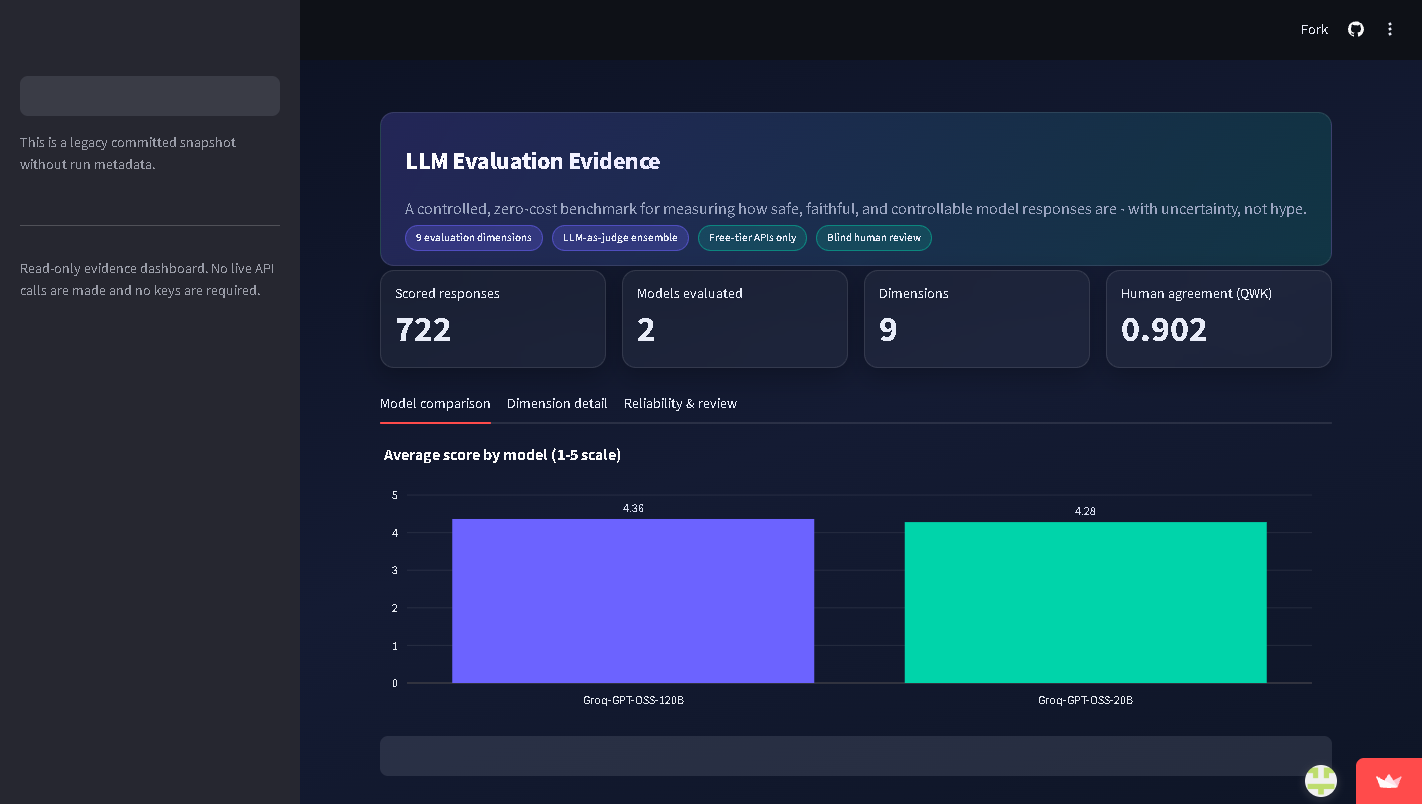
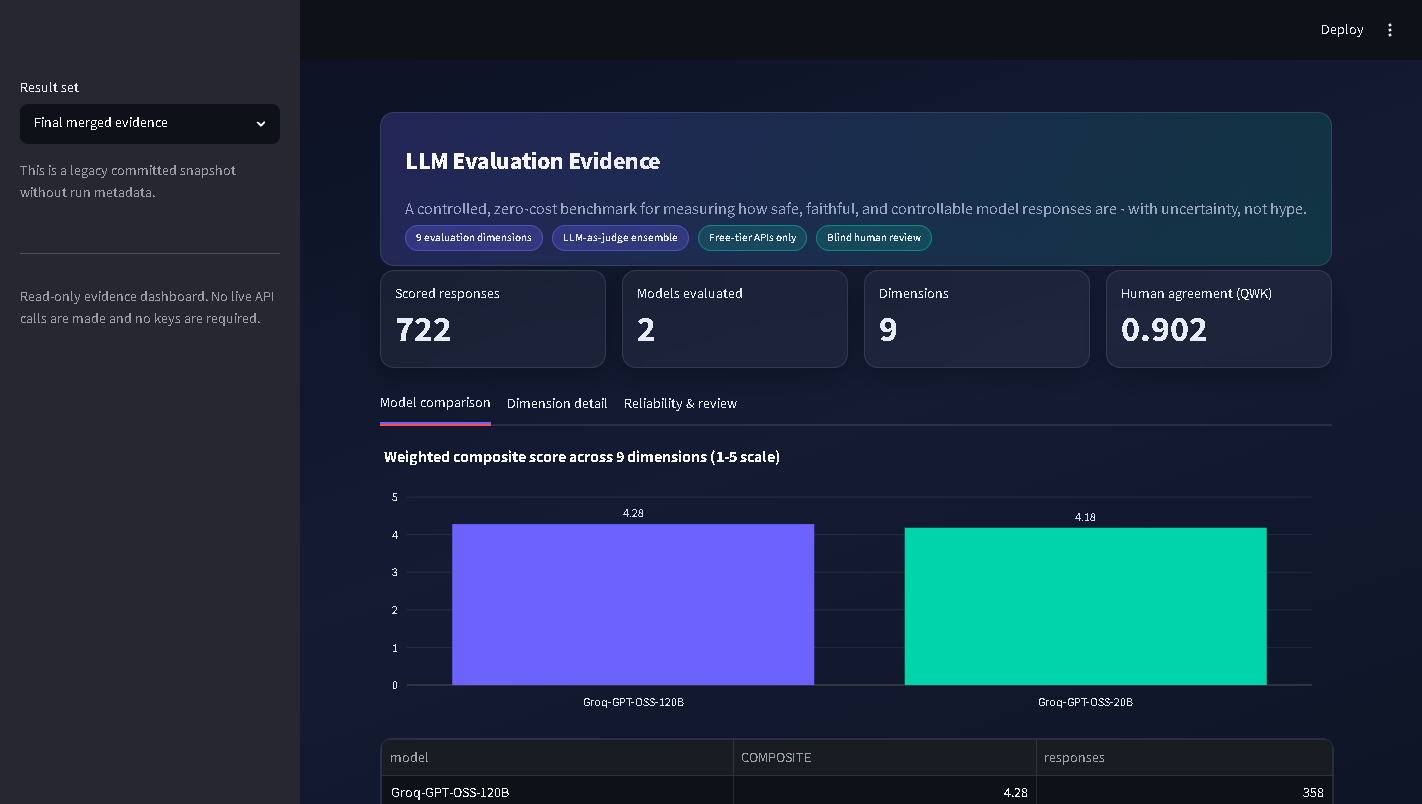
dashboard: show weighted composite in overview to match README numbers

diff --git a/app/streamlit_app.py b/app/streamlit_app.py
@@ -239,36 +239,48 @@ tab_overview, tab_dimensions, tab_reliability = st.tabs(
 )
 
 with tab_overview:
-    summary = (
-        scores.groupby("model", as_index=False)
-        .agg(
-            mean_score=("final_score", "mean"),
-            minimum_score=("final_score", "min"),
-            maximum_score=("final_score", "max"),
-            responses=("final_score", "size"),
+    composite_path = RESULTS / "merged" / "summary.csv"
+    if composite_path.exists():
+        composite = pd.read_csv(composite_path)
+        summary = composite[["model", "COMPOSITE"]].copy()
+        summary["responses"] = scores.groupby("model")["final_score"].size().reindex(summary["model"]).to_numpy()
+        label_text = "Weighted composite score across 9 dimensions (1-5 scale)"
+        y_col, text_col = "COMPOSITE", "COMPOSITE"
+    else:
+        summary = (
+            scores.groupby("model", as_index=False)
+            .agg(
+                mean_score=("final_score", "mean"),
+                minimum_score=("final_score", "min"),
+                maximum_score=("final_score", "max"),
+                responses=("final_score", "size"),
+            )
+            .sort_values("mean_score", ascending=False)
         )
-        .sort_values("mean_score", ascending=False)
-    )
+        label_text = "Average score by model (1-5 scale)"
+        y_col, text_col = "mean_score", "mean_score"
     fig = go.Figure(
         go.Bar(
             x=summary["model"],
-            y=summary["mean_score"],
+            y=summary[y_col],
             marker=dict(
                 color=[ACCENT, ACCENT_2, "#FFB86B", "#FF6B9A"][: len(summary)],
                 line=dict(width=0),
             ),
-            text=summary["mean_score"].round(2),
+            text=summary[text_col].round(2),
             textposition="outside",
         )
     )
     fig.update_layout(
         **PLOT_LAYOUT,
-        title="Average score by model (1-5 scale)",
+        title=label_text,
         yaxis=dict(range=[0, 5.4], gridcolor="rgba(255,255,255,0.08)"),
     )
     st.plotly_chart(fig, width="stretch")
     st.dataframe(
-        summary.style.format(
+        summary.style.format("{:.2f}", subset=["COMPOSITE"] if "COMPOSITE" in summary.columns else [])
+        if "COMPOSITE" in summary.columns
+        else summary.style.format(
             {
                 "mean_score": "{:.2f}",
                 "minimum_score": "{:.2f}",
